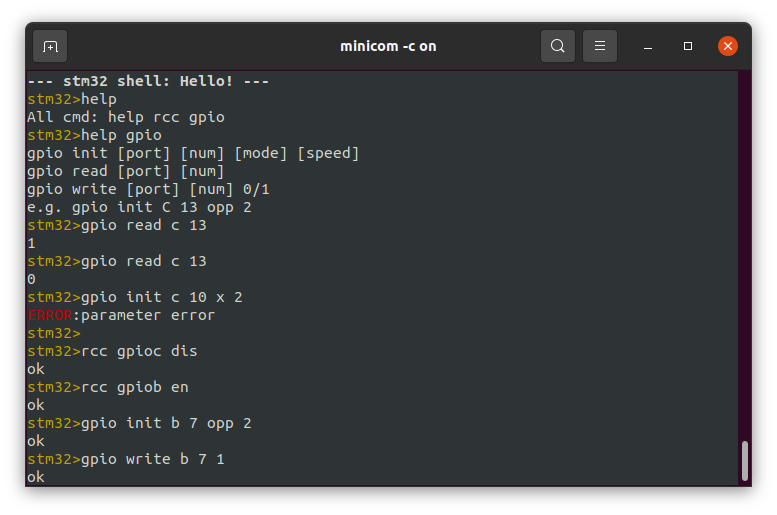
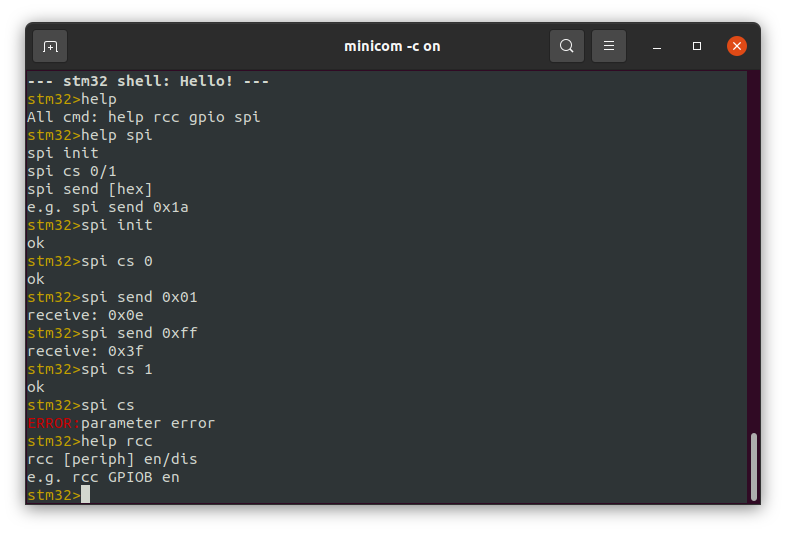
spi

diff --git a/app/spi.c b/app/spi.c
@@ -1,0 +1,86 @@
+#include "nar_string.h"
+#include "stm32f10x_gpio.h"
+#include "stm32f10x_rcc.h"
+#include "stm32f10x_spi.h"
+
+/**
+ * SPI1
+ * occupied GPIO:
+ * PA4  CS (Manual)
+ * PA5  SCLK
+ * PA6  MISO
+ * PA7  MOSI
+ */
+void spi_init() {
+    RCC_APB2PeriphClockCmd(RCC_APB2Periph_GPIOA | RCC_APB2Periph_SPI1, ENABLE);
+
+    GPIO_Init(GPIOA, &(GPIO_InitTypeDef){.GPIO_Pin = GPIO_Pin_4,
+                                         .GPIO_Speed = GPIO_Speed_50MHz,
+                                         .GPIO_Mode = GPIO_Mode_Out_PP});
+    GPIO_WriteBit(GPIOA, GPIO_Pin_4, Bit_SET);
+    GPIO_Init(GPIOA, &(GPIO_InitTypeDef){.GPIO_Pin = GPIO_Pin_5 | GPIO_Pin_7,
+                                         .GPIO_Speed = GPIO_Speed_50MHz,
+                                         .GPIO_Mode = GPIO_Mode_AF_PP});
+    GPIO_Init(GPIOA, &(GPIO_InitTypeDef){.GPIO_Pin = GPIO_Pin_6,
+                                         .GPIO_Speed = GPIO_Speed_50MHz,
+                                         .GPIO_Mode = GPIO_Mode_IN_FLOATING});
+
+    SPI_Init(SPI1, &(SPI_InitTypeDef){
+                       .SPI_BaudRatePrescaler = SPI_BaudRatePrescaler_256,
+                       .SPI_CPOL = 0,
+                       .SPI_CPHA = 0,
+                       .SPI_DataSize = SPI_DataSize_8b,
+                       .SPI_Direction = SPI_Direction_2Lines_FullDuplex,
+                       .SPI_FirstBit = SPI_FirstBit_MSB,
+                       .SPI_Mode = SPI_Mode_Master,
+                       .SPI_NSS = SPI_NSS_Soft,
+                       .SPI_CRCPolynomial = 7});
+    SPI_Cmd(SPI1, ENABLE);
+}
+
+u8 spi_send(u8 data) {
+    SPI_I2S_SendData(SPI1, data);
+    while (SPI_I2S_GetFlagStatus(SPI1, SPI_I2S_FLAG_BSY) == SET)
+        ;
+    return SPI_I2S_ReceiveData(SPI1);
+}
+
+#define NUM_OF_OP 3
+static const char* OP[] = {"init", "cs", "send"};
+
+static const char* CS[] = {"0", "1"};
+
+u8 spi_handler() {
+    u8 which_op = match_word(OP, NUM_OF_OP);
+    if (which_op >= NUM_OF_OP) {
+        goto error;
+    }
+    if (which_op == 0) {
+        // init
+        spi_init();
+        set_output("ok");
+        return 0;
+    } else if (which_op == 1) {
+        // cs
+        u8 which_cs = match_word(CS, 2);
+        if (which_cs >= 2) {
+            goto error;
+        }
+        GPIO_WriteBit(GPIOA, GPIO_Pin_4, which_cs ? Bit_SET : Bit_RESET);
+        set_output("ok");
+        return 0;
+    } else {
+        // send
+        struct error_num en = match_hex();
+        if (en.is_ok) {
+            goto error;
+        }
+        char out[] = "receive: 0x  ";
+        u8_to_hex(spi_send(en.num), out + 11);
+        set_output(out);
+        return 0;
+    }
+error:
+    set_output("parameter error");
+    return 1;
+}

diff --git a/app/nar_string.c b/app/nar_string.c
@@ -24,7 +24,7 @@ void set_output(const char* s) {
     output_buffer[i] = 0;
 }
 
-void word_match_reset() {
+void match_reset() {
     input_now = input_buffer;
 }
 
@@ -81,7 +81,7 @@ static struct range word_catch() {
 /**
  * @return 254 if no input, 255 if no match
  */
-u8 word_match(const char* words[], u8 num_of_words) {
+u8 match_word(const char* words[], u8 num_of_words) {
     struct range r = word_catch();
     if (r.end == 0) {
         return 254;
@@ -103,4 +103,44 @@ u8 dec_to_u8(const char* p) {
         r += p[i] - 48;
     }
     return r;
+}
+
+#define is_hex(a)                                                \
+    (((a) >= '0' && (a) <= '9') || ((a) >= 'a' && (a) <= 'f') || \
+     ((a) >= 'A' && (a) <= 'F'))
+
+struct error_num match_hex() {
+    struct error_num en = {0, 0};
+    struct range r = word_catch();
+    u8 l = r.end - r.begin;
+    if (l != 4 || input_now[r.begin] != '0' || input_now[r.begin + 1] != 'x' ||
+        !is_hex(input_now[r.begin + 2]) || !is_hex(input_now[r.begin + 3])) {
+        en.is_ok = 1;
+        return en;
+    }
+    char a = input_now[r.begin + 2];
+    if (a <= '9') {
+        en.num |= (a - '0');
+    } else if (a <= 'F') {
+        en.num |= (a - 55);
+    } else {
+        en.num |= (a - 87);
+    }
+    en.num <<= 4;
+    a = input_now[r.begin + 3];
+    if (a <= '9') {
+        en.num |= (a - '0');
+    } else if (a <= 'F') {
+        en.num |= (a - 55);
+    } else {
+        en.num |= (a - 87);
+    }
+    input_now += r.end;
+    return en;
+}
+
+void u8_to_hex(u8 num, char* hex) {
+    char* t = "0123456789abcdef";
+    hex[0] = t[(num & 0xf0) >> 4];
+    hex[1] = t[num & 0x0f];
 }

diff --git a/app/gpio.c b/app/gpio.c
@@ -40,21 +40,21 @@ static GPIOSpeed_TypeDef SPEED[] = {
 };
 
 u8 gpio_handler() {
-    u8 which_op = word_match(OP_KW, NUM_OF_OP);
+    u8 which_op = match_word(OP_KW, NUM_OF_OP);
     if (which_op >= NUM_OF_OP)
         goto error;
-    u8 which_port = word_match(PORT_KW, NUM_OF_PORT);
+    u8 which_port = match_word(PORT_KW, NUM_OF_PORT);
     if (which_port >= NUM_OF_PORT)
         goto error;
-    u8 which_pin = word_match(NUMS, 16);
+    u8 which_pin = match_word(NUMS, 16);
     if (which_pin >= 16)
         goto error;
     if (which_op == 0) {
         // init
-        u8 which_mode = word_match(MODE_KW, 8);
+        u8 which_mode = match_word(MODE_KW, 8);
         if (which_mode >= 8)
             goto error;
-        u8 which_speed = word_match(SPEED_KW, 3);
+        u8 which_speed = match_word(SPEED_KW, 3);
         if (which_speed >= 3)
             goto error;
         GPIO_Init(PORT[which_port], &(GPIO_InitTypeDef){
@@ -72,7 +72,7 @@ u8 gpio_handler() {
         }
     } else {
         // write
-        u8 which_0_1 = word_match(NUMS, 2);
+        u8 which_0_1 = match_word(NUMS, 2);
         if (which_0_1 >= 2)
             goto error;
         GPIO_WriteBit(PORT[which_port], PIN[which_pin], which_0_1);

diff --git a/app/help.c b/app/help.c
@@ -5,7 +5,7 @@ extern const u8 NUM_OF_CMDS;
 extern const char* CMDS_KW[];
 
 // here to add cmd info
-static const char* ALL_CMDS_info = "All cmd: help rcc gpio";
+static const char* ALL_CMDS_info = "All cmd: help rcc gpio spi";
 static const char* CMD_info[] = {
     "help [cmd]",
     "rcc [periph] en/dis\r\n"
@@ -14,10 +14,14 @@ static const char* CMD_info[] = {
     "gpio read [port] [num]\r\n"
     "gpio write [port] [num] 0/1\r\n"
     "e.g. gpio init C 13 opp 2",
+    "spi init\r\n"
+    "spi cs 0/1\r\n"
+    "spi send [hex]\r\n"
+    "e.g. spi send 0x1a",
 };
 
 u8 help_handler() {
-    u8 which = word_match(CMDS_KW, NUM_OF_CMDS);
+    u8 which = match_word(CMDS_KW, NUM_OF_CMDS);
     if (which < 254) {
         set_output(CMD_info[which]);
         return 0;

diff --git a/app/shell.c b/app/shell.c
@@ -5,23 +5,26 @@
 #include "nar_string.h"
 #include "rcc.h"
 #include "shell.h"
+#include "spi.h"
 
 // here to add cmd
-const u8 NUM_OF_CMDS = 3;
+const u8 NUM_OF_CMDS = 4;
 const char* CMDS_KW[] = {
     "help",
     "rcc",
     "gpio",
+    "spi",
 };
 static const u8 (*CMD_handler[])() = {
     help_handler,
     rcc_handler,
     gpio_handler,
+    spi_handler,
 };
 
 u8 cmd_handler() {
-    word_match_reset();
-    u8 which = word_match(CMDS_KW, NUM_OF_CMDS);
+    match_reset();
+    u8 which = match_word(CMDS_KW, NUM_OF_CMDS);
     if (which < 254) {
         return CMD_handler[which]();
     } else if (which == 254) {

diff --git a/app/rcc.c b/app/rcc.c
@@ -14,9 +14,9 @@ static const char* STATUS_KW[] = {"en", "dis"};
 static const FunctionalState STATUS[] = {ENABLE, DISABLE};
 
 u8 rcc_handler() {
-    u8 which_p = word_match(PERIPH_KW, NUM_OF_PERIPH);
+    u8 which_p = match_word(PERIPH_KW, NUM_OF_PERIPH);
     if (which_p < 254) {
-        u8 which_s = word_match(STATUS_KW, 2);
+        u8 which_s = match_word(STATUS_KW, 2);
         if (which_s < 254) {
             RCC_APB2PeriphClockCmd(PERIPH[which_p], STATUS[which_s]);
             set_output("ok");

diff --git a/app/nar_string.h b/app/nar_string.h
@@ -3,10 +3,16 @@
 
 #include "stm32f10x.h"
 
+struct error_num {
+    u8 num;
+    u8 is_ok;  // 0 is ok
+};
+
 u8 string_length(const char* p);
 void set_output(const char* s);
-void word_match_reset();
-u8 word_match(const char* words[], u8 num_of_words);
-u8 dec_to_u8(const char* p);
+void match_reset();
+u8 match_word(const char* words[], u8 num_of_words);
+struct error_num match_hex();
+void u8_to_hex(u8 num, char* hex);
 
 #endif

diff --git a/app/spi.h b/app/spi.h
@@ -1,0 +1,8 @@
+#ifndef SPI_H
+#define SPI_H
+
+#include "stm32f10x.h"
+
+u8 spi_handler();
+
+#endif
